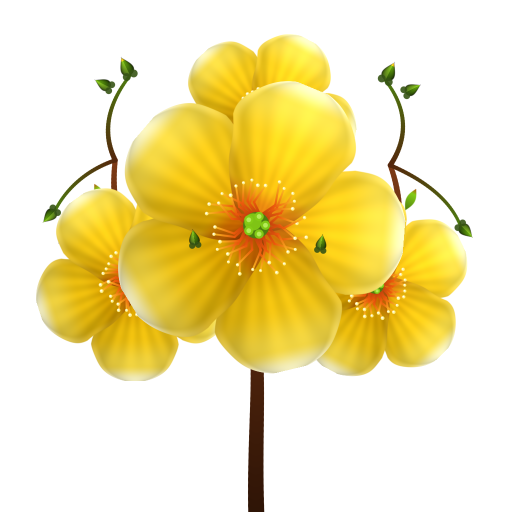
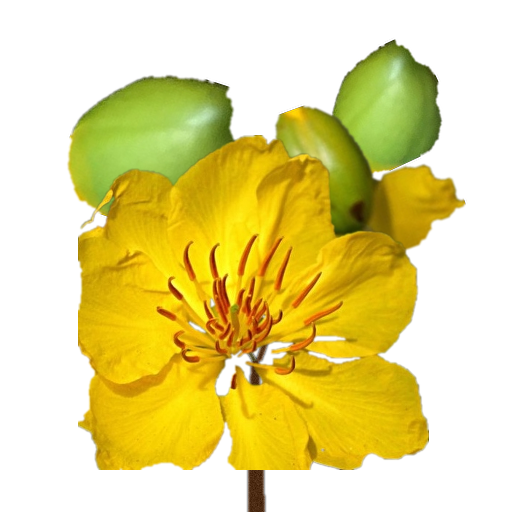
feat: photorealistic Hoa Mai asset extracted from real macro photography with lush flowering bonsai density

diff --git a/src/engine/styles/treeStyle.ts b/src/engine/styles/treeStyle.ts
@@ -1109,9 +1109,10 @@ export const treeStyle: QRStyleGenerator = {
     treeOptions.bark.tint = palette.barkTint;
     treeOptions.leaves.tint = 0xffffff;
     if (season.id === 'spring') {
-      treeOptions.leaves.count = 20;
-      treeOptions.leaves.size = 3.3;
-      treeOptions.leaves.start = 0.04;
+      // Authentic blooming Hoa Mai bonsai: lush floral volume with radiant golden blossoms
+      treeOptions.leaves.count = 22;
+      treeOptions.leaves.size = 3.4;
+      treeOptions.leaves.start = 0.035;
     }
 
     const realisticTree = new Tree();
